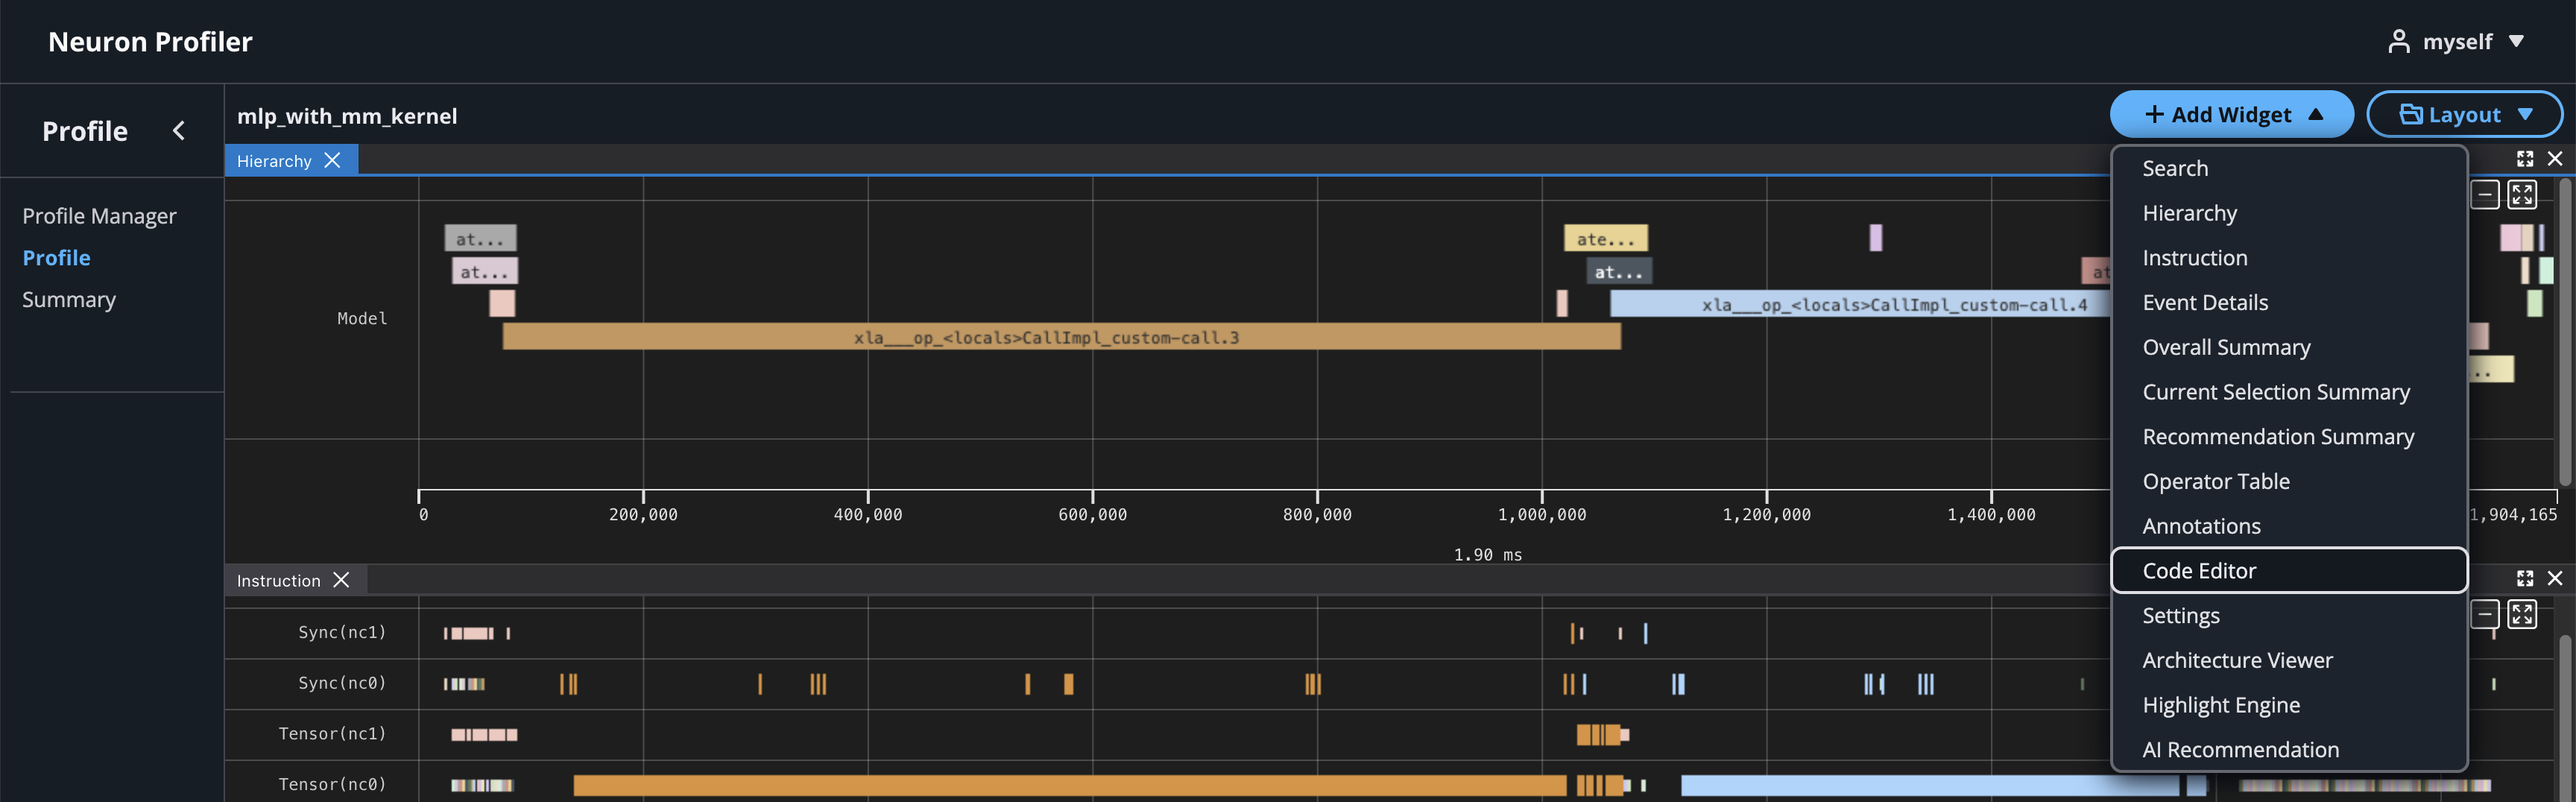
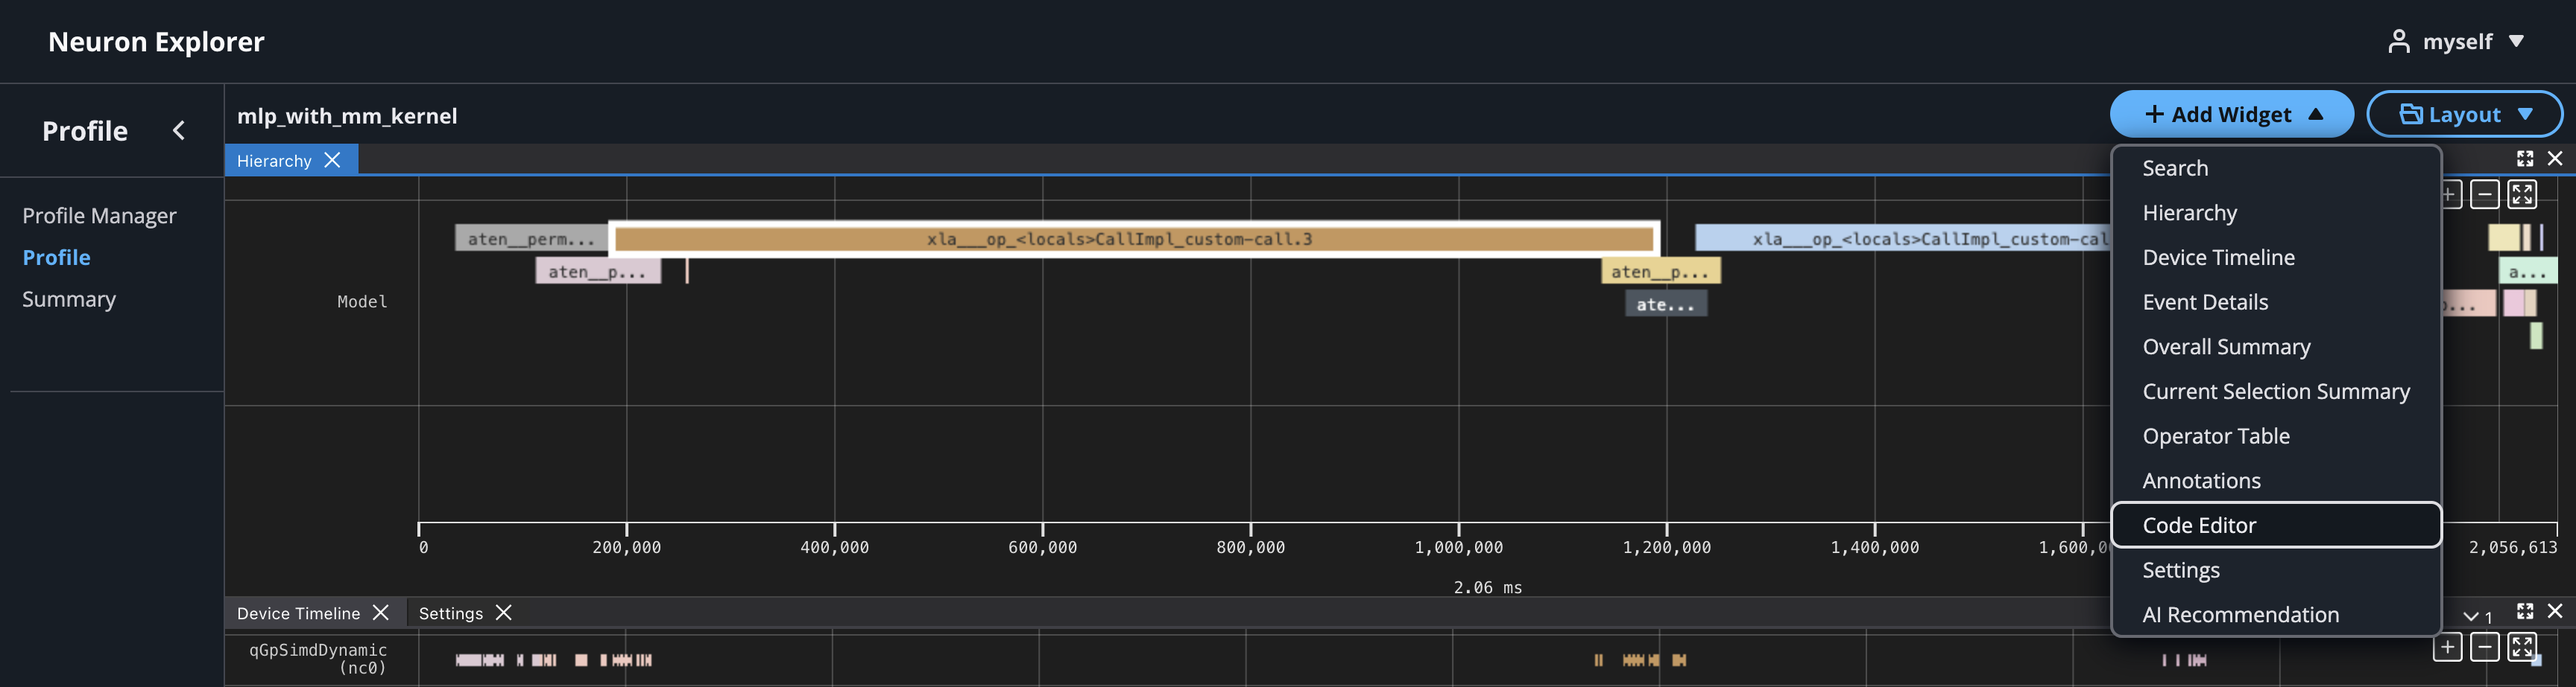
Updated NKI kernel profiling topic

diff --git a/nki/how-to-guides/use-neuron-profile.rst b/nki/how-to-guides/use-neuron-profile.rst
@@ -240,31 +240,33 @@ Compile your NKI kernel to create a NEFF in your current directory::
 
     $ python3 mlp_with_mm_kernel.py
 
-.. note:: Find your NEFF named similarly to ``MODULE_SyncTensorsGraph.81_690876920003119736.neff``.
+.. note:: Find your NEFF file, which will be named something like ``MODULE_SyncTensorsGraph.81_690876920003119736.neff``.
 
 Step 3: Profile the Generated NEFF
 ^^^^^^^^^^^^^^^^^^^^^^^^^^^^^^^^^^^
 
-The last step would be profiling the generated NEFF. This step executes the NEFF on the NeuronDevice and records a raw execution trace into a NTFF artifact::
+The last step is profiling the generated NEFF. This step executes the NEFF on the NeuronDevice and records a raw execution trace into a NTFF artifact::
 
-    $ neuron-profile capture -n <path_to_neff> -s profile.ntff --profile-nth-exec=2 --enable-dge-notifs
+    $ neuron-explorer capture -n <path_to_neff> -s profile.ntff --profile-nth-exec=2 --enable-dge-notifs
 
 This will save your NTFF profile to ``profile_exec_2.ntff``.
 
-.. note:: The ``--profile-nth-exec=2`` option will profile your NEFF twice on the NeuronDevice and output a NTFF profile for the second iteration. This is recommended to avoid one-time warmup delays which can be seen in the first iteration of execution.
+important:: 
+    
+    The ``--profile-nth-exec=2`` option will profile your NEFF twice on the NeuronDevice and output a NTFF profile for the second iteration. This is recommended to avoid one-time warmup delays which can be seen in the first iteration of execution.
 
-.. note:: The ``--enable-dge-notifs`` option enables the capture of DGE DMA events but has known issues where it may overflow the status notification queue and cause execution timeouts when there are many DGE instructions.
-
-View the Neuron Profile UI
----------------------------
+    The ``--enable-dge-notifs`` option enables the capture of DGE DMA events but has known issues where it may overflow the status notification queue and cause execution timeouts when there are many DGE instructions.
+ 
+View the Neuron Explorer UI
+----------------------------
 
 This section assumes you've completed the previous step and have already generated both the NEFF and NTFF files, and downloaded them on your local machine.
 
 Neuron Explorer includes an interactive, web-based UI for exploring execution traces in detail. In this section, we'll open the Neuron Explorer UI to examine NKI-specific profiling information. These details can be found in multiple areas of the interface — including instruction hover tooltips, instruction click panels, search results, and box select results.
 
-To view the Neuron Profile Web UI, execute the view command to start Web UI::
+To view the Neuron Profile Web UI, execute the view command to start Web UI, replacing ``<workspace>`` with a path to a folder to store your profiling artifacts::
 
-    $ neuron-profile view --data-path ./<workspace> --output-format parquet --ui-mode latest
+    $ neuron-explorer view --data-path ./<workspace>
 
 ``<workspace>`` is a path that neuron profile will use for storing and managing profiles.
 
@@ -281,9 +283,12 @@ For example::
 
     ssh -L 3001:localhost:3001 -L 3002:localhost:3002 <user>@<ip> -fN
 
-If you created an EC2 instance with pem credentials please include it in the ssh tunnel below::
+If you created an EC2 instance with ``pem`` credentials, include it in the ``ssh`` tunnel below::
 
     ssh -i ~/my-ec2.pem -L 3001:localhost:3001 -L 3002:localhost:3002 ubuntu@[PUBLIC_IP_ADDRESS] -fN
+
+
+.. 
 
 Using the Profile UI
 ~~~~~~~~~~~~~~~~~~~~~
@@ -294,7 +299,7 @@ Using the Profile UI
       :align: center
       :width: 750
 
-* Click on the button "Upload Profile" to upload NEFF and NTFF files, and give a meaningful name to your profile. It is optional to select source code folder for code linking.
+* Click on the button "Upload Profile" to upload NEFF and NTFF files, and give a meaningful name to your profile. Selecting a source code folder for code linking is optional.
 
    .. image:: /nki/img/how-to/nki-profiler-2.png
       :align: center
@@ -349,19 +354,19 @@ You can optionally include your NKI source code files for display in Neuron Prof
 
 .. note:: Even if you don't upload the source code, the NKI source filename and line number remain available in the instruction detail view as noted in View Neuron Profile UI.
 
-* If source code is uploaded with NEFF and NTFF file, you will be able to see the source code in the code editor. To open the code editor, click on Add Widget and select Code Editor.
+* If source code is uploaded with NEFF and NTFF file, you will be able to see the source code in the code editor. To open the code editor, click on **Add Widget** and select **Code Editor**.
   
    .. image:: /nki/img/how-to/nki-profiler-10.png
       :align: center
       :width: 750
     
-* The code editor will be open on the right hand side.
+* The code editor will be open on the right-hand side.
   
    .. image:: /nki/img/how-to/nki-profiler-11.png
       :align: center
       :width: 750
 
-* Hover on an instruction that has NKI source location and Command + left click on Mac (Control + right click on Windows), it will pop-up a window for showing file selection for stack trace.
+* Hover on an instruction that has NKI source location and **Command + left click** on Mac (**Ctrl + right click** on Windows), and it will pop-up a window for showing file selection for stack trace.
 
    .. image:: /nki/img/how-to/nki-profiler-12.png
       :align: center
@@ -373,7 +378,7 @@ You can optionally include your NKI source code files for display in Neuron Prof
       :align: center
       :width: 750
 
-* You can also enable different source code decorations in Source Code Settings.
+* You can also enable different source code decorations in **Source Code Settings**.
 
    .. image:: /nki/img/how-to/nki-profiler-14.png
       :align: center
